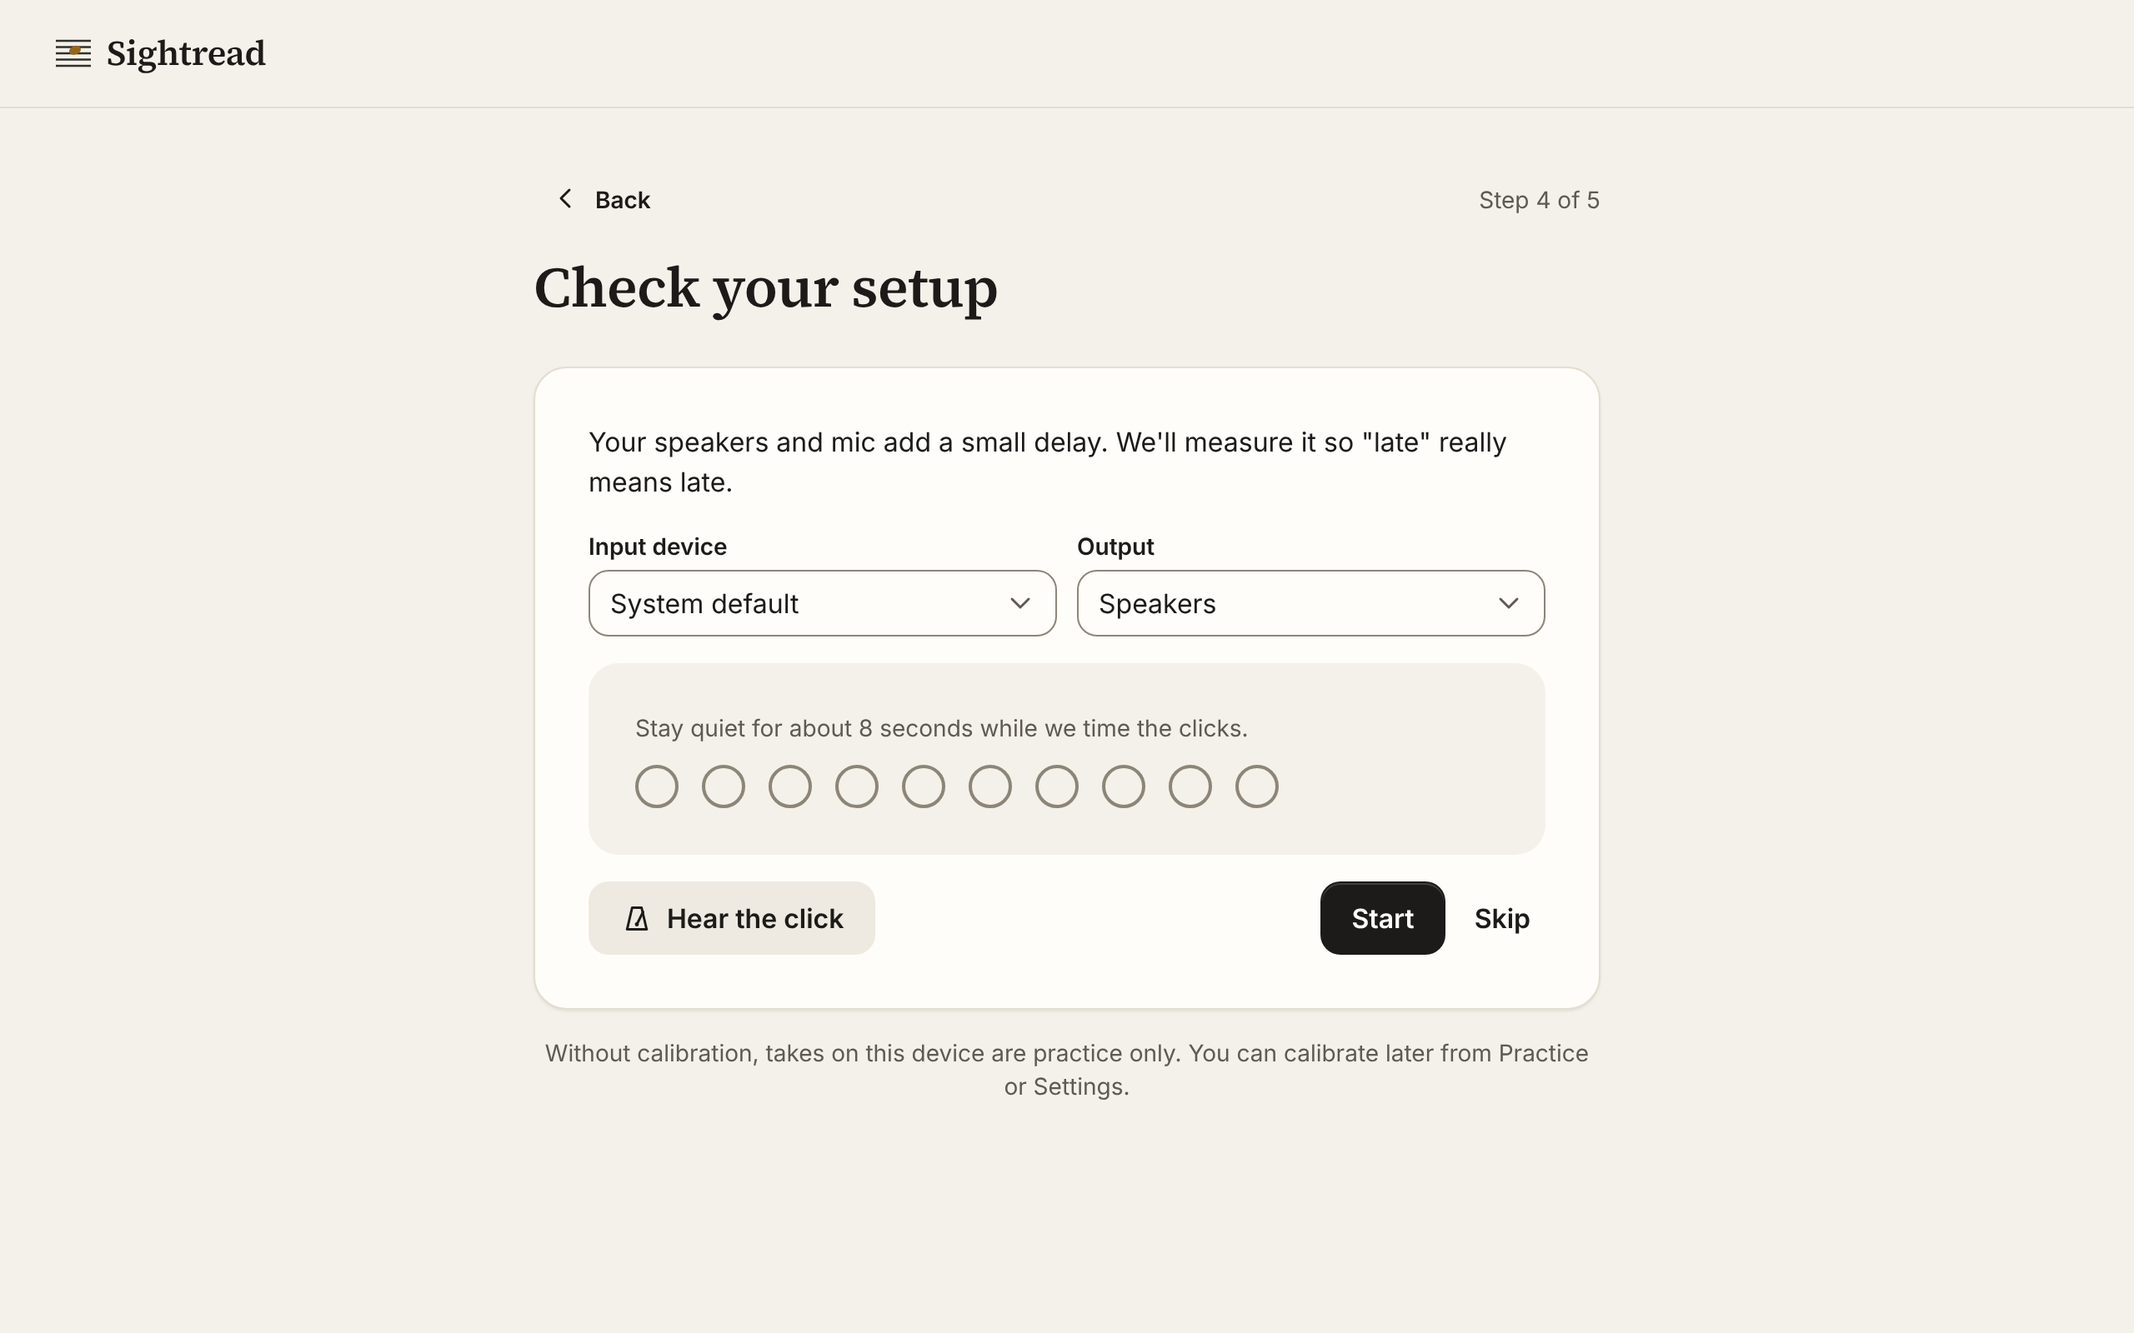
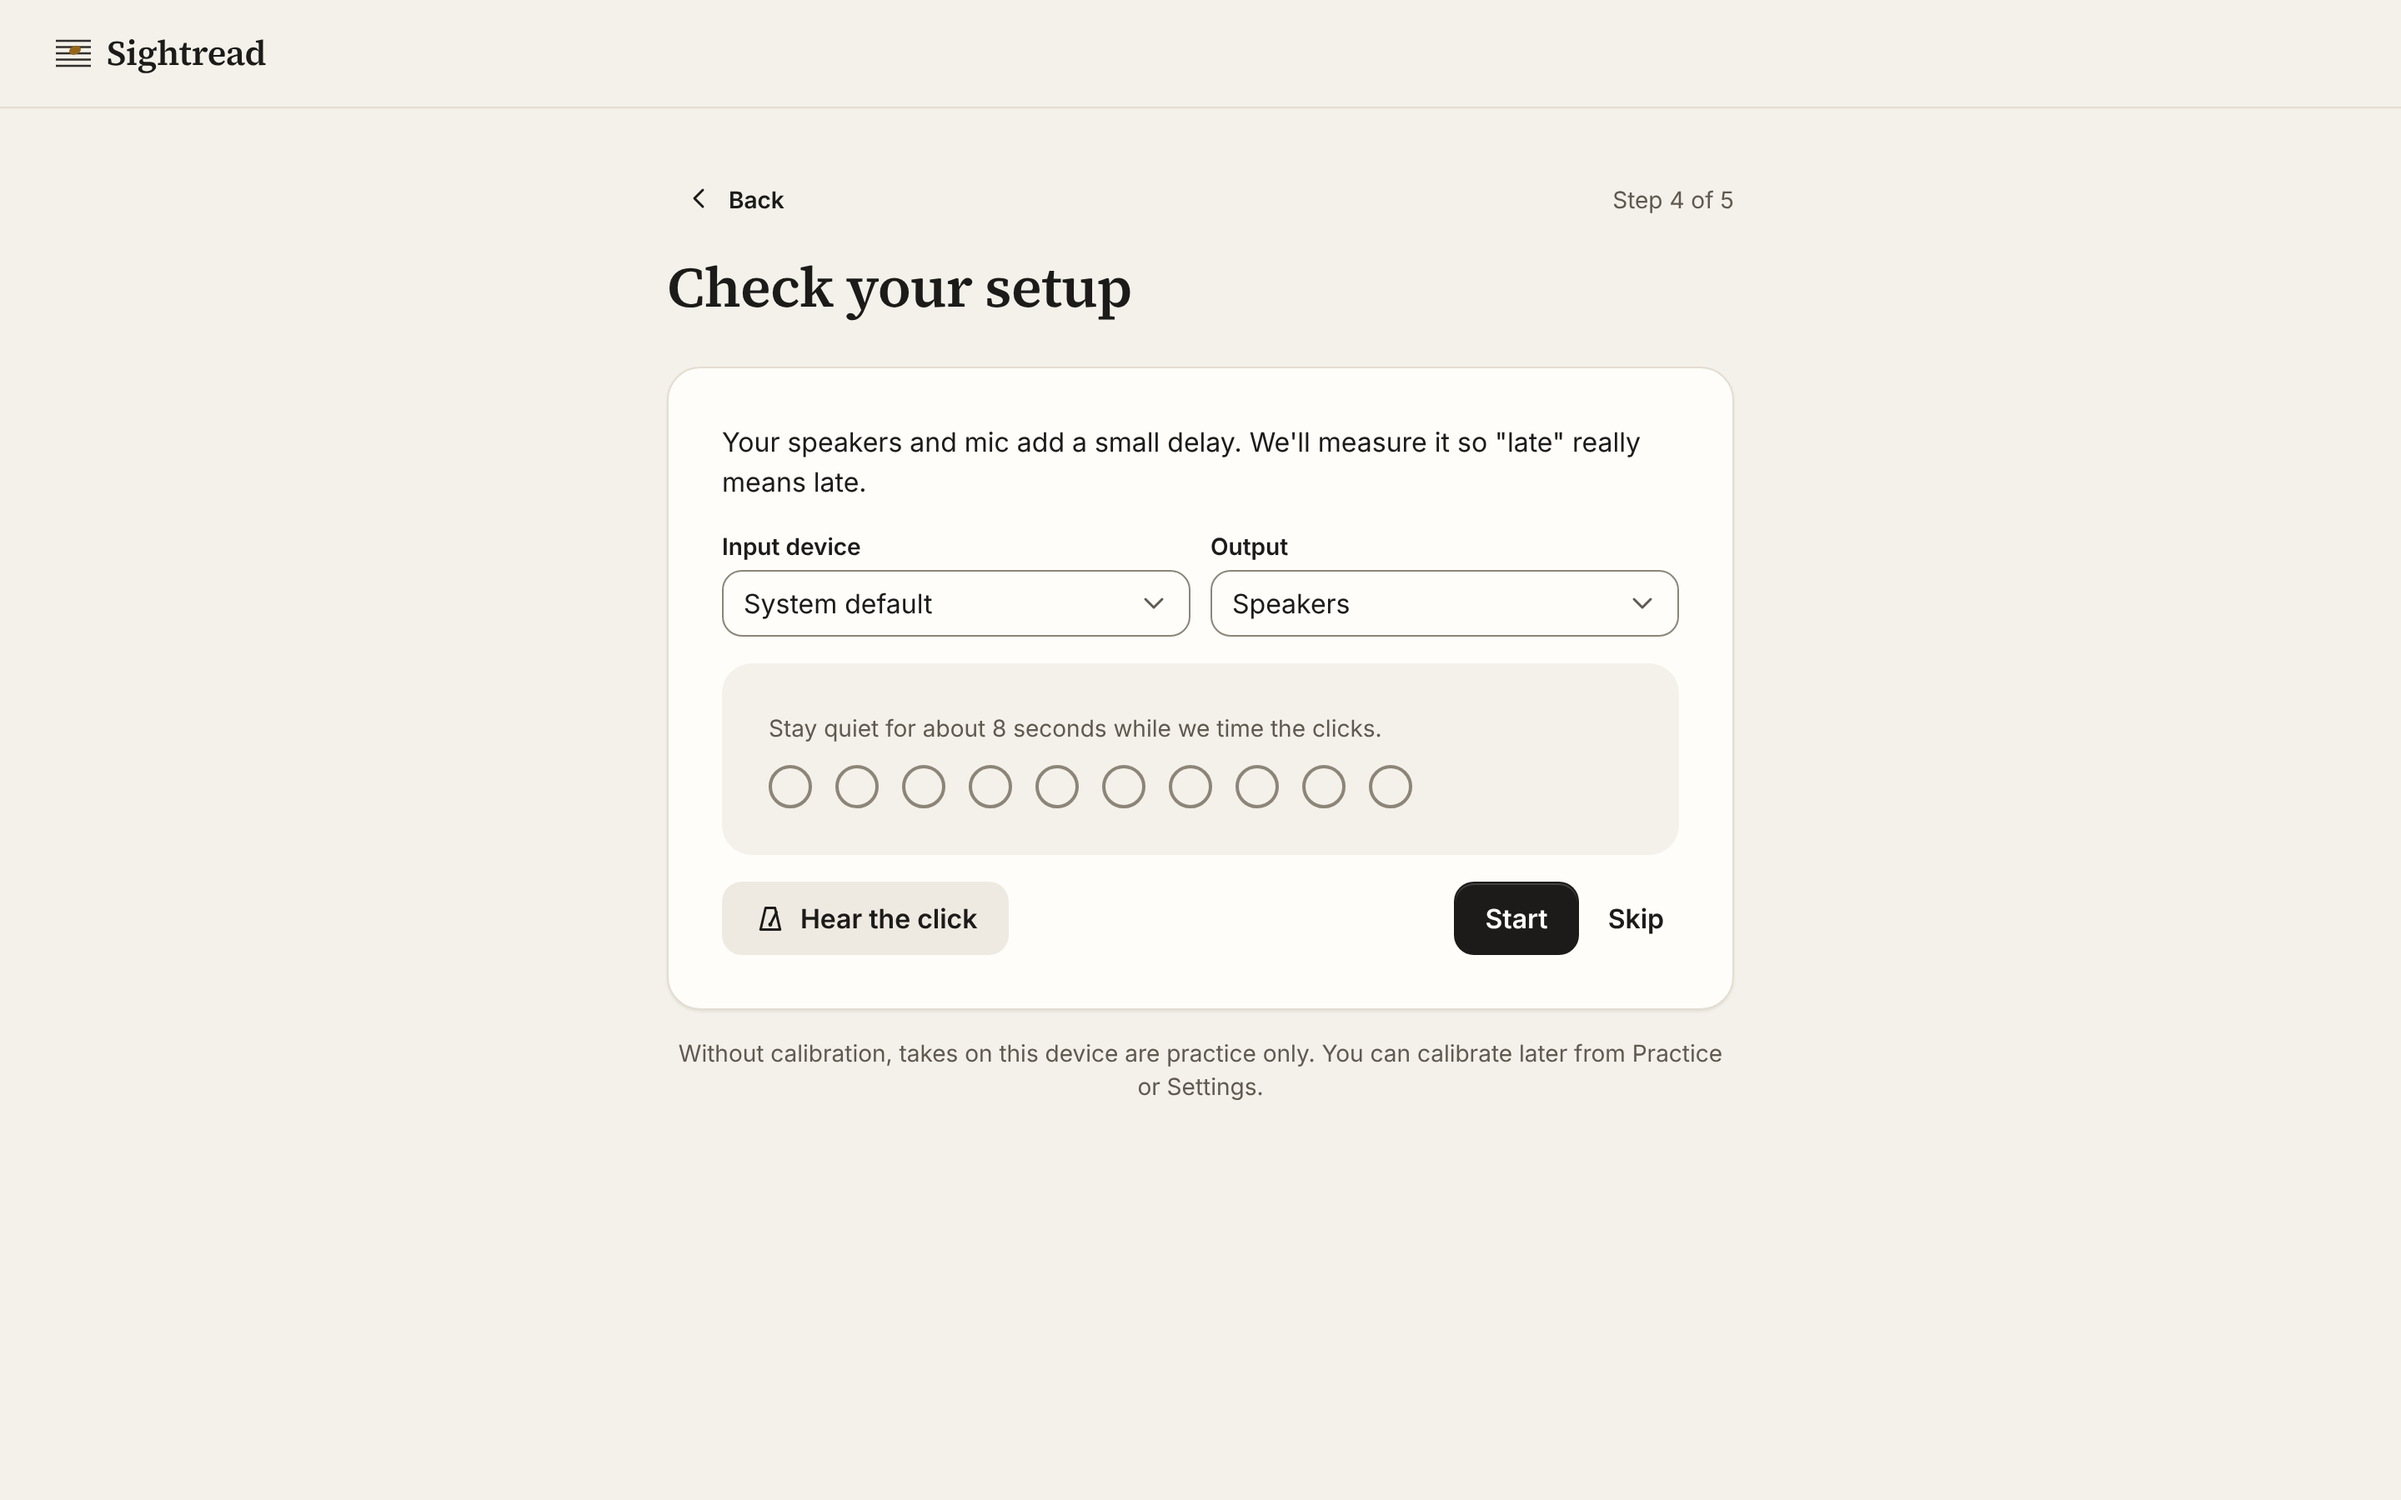
WIP: redesign checkpoint after tour
Claude-Session: https://claude.ai/code/session_01SdTiEak7W47najTvFXd41W

diff --git a/e2e/tour/tour.spec.ts b/e2e/tour/tour.spec.ts
@@ -1,15 +1,38 @@
-// Screen tour (wave 3 review): every screen of the production build against the emitted corpus, as a user reaches
-// it, captured into docs/screenshots/<project>/. One take is played through Chromium's fake capture with one note
-// 2 semitones sharp and one note late; the spec checks on screen that the wrong note turns red with a ghost at the
-// played pitch and that the late note turns red with a 'late' ghost displaced to the right of its notehead.
+// Screen tour: every screen of the production build against the emitted corpus, as a user reaches it, captured into
+// docs/screenshots/<project>/ (the folder is emptied first, so the set is always fresh). It covers the picker with
+// Baritone, the key grid and time segments, "Show the music", the starting-pitch reference and its info, "Listen first"
+// in practice, the results, "One thing to try" when a take earns a tip, and Settings > Sound previews. One take is
+// played through Chromium's fake capture with one note 2 semitones sharp and one note late; the spec checks on screen
+// that the wrong note turns red with a ghost at the played pitch and that the late note turns red with a 'late' ghost
+// displaced to the right of its notehead.
 // Run with -c e2e/tour/playwright.tour.config.ts.
-import { mkdirSync } from 'node:fs';
+import { mkdirSync, rmSync } from 'node:fs';
 import { join } from 'node:path';
-import { expect, test, type Page } from '@playwright/test';
+import { expect, test, type Locator, type Page } from '@playwright/test';
 import { loadLoopHelpers } from '../loop/bundle.ts';
 import { chooseMode, chooseOutput, LOOP_T0_SEC, pagePlan, watchErrors } from '../loop/flow.ts';
 
 test.skip(process.env['E2E_TOUR'] !== '1', 'run with -c e2e/tour/playwright.tour.config.ts');
+
+const isPhone = (page: Page): boolean => (page.viewportSize()?.width ?? 1280) < 1024;
+
+/** Opens a setup row: on phones through its summary chip (the setup sheet), on desktop it is already on screen. */
+async function openRow(page: Page, row: 'key' | 'time'): Promise<Locator> {
+  if (isPhone(page)) {
+    await page.locator(`[data-chip="${row}"]`).click();
+    const sheet = page.getByTestId('setup-sheet');
+    await expect(sheet).toBeVisible();
+    return sheet.locator(`[data-setup-slot="${row}"]`);
+  }
+  return page.getByTestId('screen-home').locator(`[data-setup-slot="${row}"]`);
+}
+
+/** Closes the setup sheet on phones; desktop rows need no closing. */
+async function closeRow(page: Page): Promise<void> {
+  if (!isPhone(page)) return;
+  await page.getByRole('dialog').getByRole('button', { name: 'Done', exact: true }).click();
+  await expect(page.getByTestId('setup-sheet')).toHaveCount(0);
+}
 
 /** Copy keys look like `a.b.c` with no spaces; a rendered key means a missing string. */
 const RAW_KEY = /\b(?:[a-z][a-zA-Z0-9]*\.){1,4}[a-z][a-zA-Z0-9-]*\b/;
@@ -46,10 +69,12 @@ async function overflow(page: Page): Promise<string[]> {
 }
 
 test('screen tour: onboarding, home, scan, take with a wrong and a late note, results, tips, every tab', async ({ page }, info) => {
+  test.setTimeout(600_000);
   const h = await loadLoopHelpers();
   const wav = process.env['E2E_TOUR_WAV']!;
   const errors = watchErrors(page);
   const dir = join(process.cwd(), 'docs', 'screenshots', info.project.name);
+  rmSync(dir, { recursive: true, force: true });
   mkdirSync(dir, { recursive: true });
   let n = 0;
   const issues: string[] = [];
@@ -67,7 +92,8 @@ test('screen tour: onboarding, home, scan, take with a wrong and a late note, re
   await shot('welcome');
   await page.getByRole('button', { name: 'Get started' }).click();
   await shot('onboarding-instrument');
-  await page.getByRole('radio', { name: /Flute/ }).check();
+  // Baritone: a voice, so the take has the starting-pitch reference (its info and the sound) rather than the key chord.
+  await page.getByRole('radio', { name: /Baritone/ }).check();
   await page.getByRole('button', { name: 'Continue' }).click();
   await expect(page.getByTestId('ob-mic')).toBeVisible();
   await shot('onboarding-mic');
@@ -86,6 +112,25 @@ test('screen tour: onboarding, home, scan, take with a wrong and a late note, re
   await expect(home).toBeVisible({ timeout: 15_000 });
   await shot('home');
   await chooseOutput(page, 'Wired headphones');
+
+  // The picker lists Baritone among the launch voices.
+  await (isPhone(page) ? home.locator('.home-summary-inst') : home.getByRole('button', { name: /Change instrument/ }).first()).click();
+  await expect(page.locator('[role="radio"][data-instrument="voice-baritone"]')).toHaveCount(1);
+  await shot('picker');
+  await page.getByRole('button', { name: 'Done', exact: true }).click();
+  await expect(page.locator('[role="radio"][data-instrument="voice-baritone"]')).toHaveCount(0);
+
+  // Key grid and time segments: choose a key and a time signature other than Any, then close the rows.
+  const key = await openRow(page, 'key');
+  await expect(key.locator('[role="radio"][data-key]').first()).toBeVisible();
+  await shot('key-grid', false);
+  await key.locator('[role="radio"][data-key]').nth(1).click();
+  await closeRow(page);
+  const time = await openRow(page, 'time');
+  await shot('time-segments', false);
+  await time.getByRole('radio').nth(1).click();
+  await closeRow(page);
+
   await chooseMode(page, 'practice');
   await page.getByRole('button', { name: 'Start', exact: true }).click();
   await expect(page.getByTestId('scan-cover')).toBeVisible({ timeout: 30_000 });
@@ -98,6 +143,15 @@ test('screen tour: onboarding, home, scan, take with a wrong and a late note, re
   await expect(scan.locator('[data-expected-idx]').first()).toBeVisible({ timeout: 30_000 });
   await expect.poll(() => page.evaluate(() => document.fonts.check('30pt Bravura')), { timeout: 15_000 }).toBe(true);
   await shot('scan');
+  // The starting pitch: its info, then the sound. Listen first makes this take practice (the take stays unranked).
+  await page.getByRole('button', { name: 'About Hear starting pitch' }).click();
+  await shot('scan-reference-info', false);
+  await page.keyboard.press('Escape');
+  await page.getByRole('button', { name: /^Hear starting pitch/ }).click();
+  await shot('scan-starting-pitch', false);
+  await page.getByRole('button', { name: /^Listen first/ }).click();
+  await shot('scan-listen-first', false);
+  await page.getByRole('button', { name: /^Stop/ }).first().click();
   const plan = await pagePlan(page);
   const wrongIdx = h.wrongNoteIdx(plan.expected);
   const lateIdx = h.lateNoteIdx(plan.expected);
@@ -161,6 +215,13 @@ test('screen tour: onboarding, home, scan, take with a wrong and a late note, re
   // clean-read tip. The tips interstitial is gone: `#/practice/tips` goes back to the open result (decision 13).
   const tipsShown = await page.evaluate(() => (window as unknown as { __sr: { session: { record: { score: { tipsShown: string[] } | null } | null } } }).__sr.session.record?.score?.tipsShown ?? []);
   expect(tipsShown).not.toContain('U18');
+  if (tipsShown.length > 0) {
+    // The tip sits under the results as "One thing to try".
+    await expect(page.getByText('One thing to try', { exact: true }).first()).toBeVisible();
+    await shot('results-one-thing-to-try', false);
+  } else {
+    info.annotations.push({ type: 'tip', description: 'this take earned no tip, so One thing to try is not on screen' });
+  }
   await page.evaluate(() => { window.location.hash = '#/practice/tips'; });
   await expect(page).toHaveURL(/#\/practice\/results$/);
   await expect(page.getByTestId('results-panel')).toBeVisible({ timeout: 10_000 });
@@ -185,6 +246,11 @@ test('screen tour: onboarding, home, scan, take with a wrong and a late note, re
   }
   await visit('#/settings', 'settings');
   for (const s of ['audio', 'display', 'practice', 'accessibility', 'data', 'about']) await visit(`#/settings/${s}`, `settings-${s}`);
+  // Sound previews: each metronome sound plays a bar from its own button.
+  await page.evaluate(() => { window.location.hash = '#/settings/audio'; });
+  await page.getByRole('button', { name: /^Play a bar of/ }).nth(1).click();
+  await shot('settings-sound-previews', false);
+  await page.getByRole('button', { name: /^Stop/ }).first().click().catch(() => undefined);
   await visit('#/calibrate', 'calibrate');
   await visit('#/credits', 'credits');
   await visit('#/no-such-page', 'not-found');

diff --git a/e2e/tour/playwright.tour.config.ts b/e2e/tour/playwright.tour.config.ts
@@ -27,7 +27,7 @@ const launchOptions = {
     `--use-file-for-fake-audio-capture=${TOUR_WAV}%noloop`,
   ],
 };
-const desktop = { ...devices['Desktop Chrome'], viewport: { width: 1280, height: 800 }, deviceScaleFactor: 2 };
+const desktop = { ...devices['Desktop Chrome'], viewport: { width: 1440, height: 900 }, deviceScaleFactor: 2 };
 const iphone = { viewport: { width: 390, height: 844 }, deviceScaleFactor: 2, isMobile: true, hasTouch: true };
 
 export default defineConfig({
